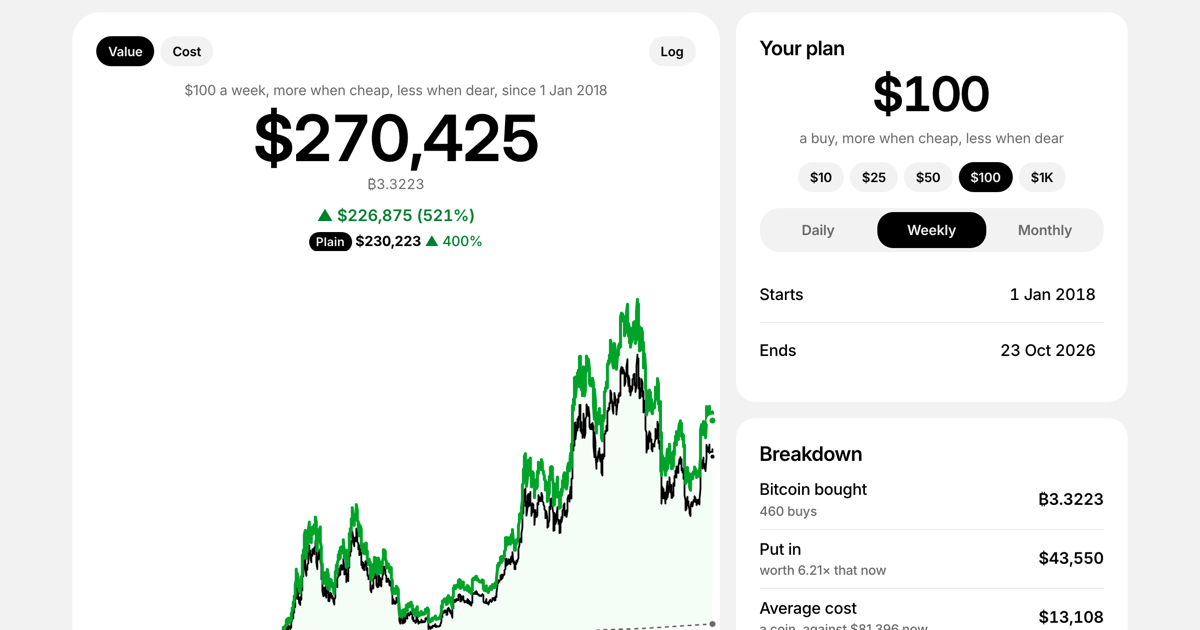
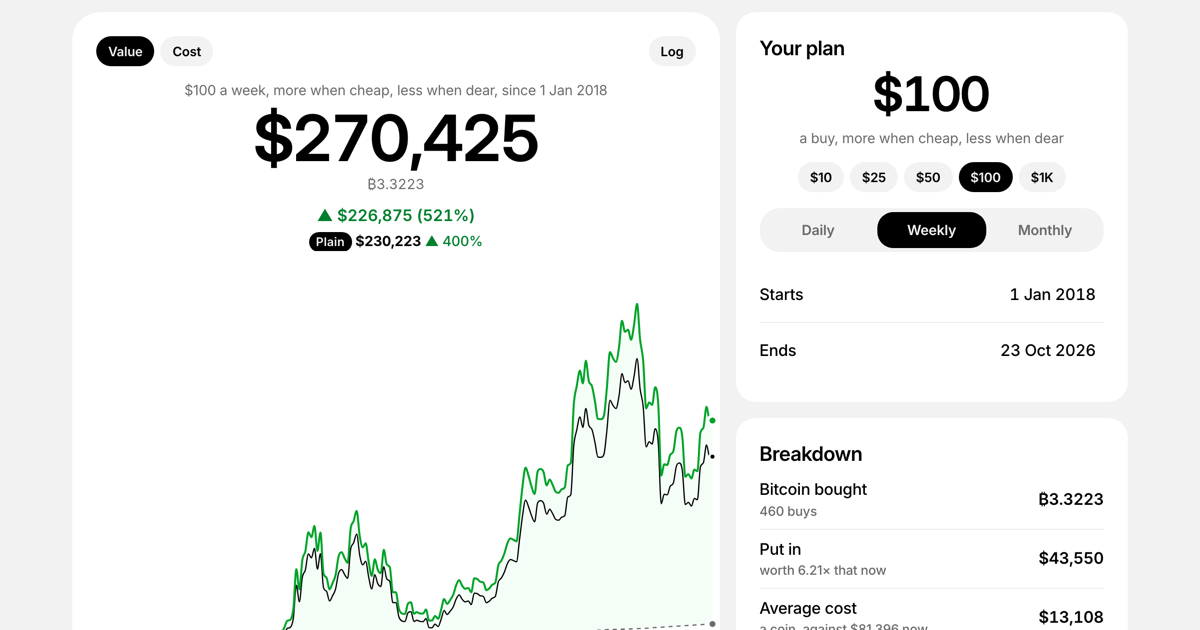
showcases: DCA's chart lines thinner and smooth (the plan's 2px, the rest 1.25px; picked from five looks): a point every 3px, joined by a curve that never shows a high or low its points don't have (monotone, Fritsch–Carlson), a short plan's filled from the same curve through its days; the crosshair'

diff --git a/showcases/dca/index.html b/showcases/dca/index.html
@@ -467,15 +467,15 @@
         fill: var(--loss-fill);
       }
 
+      /* (Thin: the plan's own 2px, the rest 1.25px.) */
       .line {
         fill: none;
-        stroke-width: 2.5px;
+        stroke-width: 2px;
         stroke-linecap: round;
         stroke-linejoin: round;
 
         &.up {
           stroke: var(--line-up);
-          stroke-width: 3px;
         }
 
         &.down {
@@ -484,17 +484,17 @@
 
         &.price {
           stroke: var(--soft);
-          stroke-width: 1.75px;
+          stroke-width: 1.25px;
         }
 
         &.plain {
           stroke: var(--plain);
-          stroke-width: 1.75px;
+          stroke-width: 1.25px;
         }
 
         &.dashed {
           stroke: var(--soft);
-          stroke-width: 1.5px;
+          stroke-width: 1.25px;
           stroke-dasharray: 3 5;
         }
       }
@@ -562,7 +562,7 @@
           height: 0;
           margin-right: 6px;
           vertical-align: 0.3em;
-          border-top: 2.5px solid var(--line-up);
+          border-top: 2px solid var(--line-up);
           border-radius: 2px;
         }
 
@@ -572,7 +572,7 @@
 
         .price i {
           border-top-color: var(--soft);
-          border-top-width: 2px;
+          border-top-width: 1.5px;
         }
 
         .down i {
@@ -581,6 +581,7 @@
 
         .plain i {
           border-top-color: var(--plain);
+          border-top-width: 1.5px;
         }
 
         .plain-name {
@@ -1480,7 +1481,12 @@
 
       // ── The plan's state, in the address (to: left out while it's the last day) ──
 
-      const state = { amount: 100, every: /** @type {Every} */ ("week"), from: 0, to: 0, log: false, view: /** @type {"value" | "cost"} */ ("value"), atlas: /** @type {"returns" | "edge"} */ ("returns") };
+      /** Each chart's scale by default: the value's linear, a plan's worth as it grew; the cost's log, as the price and a
+       * coin's cost span cents to tens of thousands of dollars. */
+      const LOG = { value: false, cost: true };
+      const state = { amount: 100, every: /** @type {Every} */ ("week"), from: 0, to: 0, logs: { ...LOG }, view: /** @type {"value" | "cost"} */ ("value"), atlas: /** @type {"returns" | "edge"} */ ("returns") };
+      /** Whether the chart shown is on a log scale (each chart keeps its own). */
+      const logged = () => state.logs[state.view];
       /** The plain plan, and the smart plan over the same days (none without MVRV). @type {Run} */
       let plan;
       /** @type {Run | null} */
@@ -1496,7 +1502,7 @@
       /** The plan a link asks for; a part that isn't usable stays the default, and the page says which. */
       function readAddress() {
         const query = new URLSearchParams(location.search), unused = [];
-        const amount = query.get("amount"), every = query.get("every"), from = query.get("from"), to = query.get("to"), view = query.get("view"), atlas = query.get("map");
+        const amount = query.get("amount"), every = query.get("every"), from = query.get("from"), to = query.get("to"), view = query.get("view"), scale = query.get("scale"), atlas = query.get("map");
         if (amount !== null) amountProblem(Number(amount)) ? unused.push("amount") : (state.amount = Number(amount));
         if (every !== null) every === "day" || every === "week" || every === "month" ? (state.every = every) : unused.push("schedule");
         const toDay = to === null ? last : linkDay(to), fromDay = from === null ? NaN : linkDay(from);
@@ -1504,8 +1510,9 @@
         state.to = toDay >= first && toDay <= last ? toDay : last;
         if (from !== null && !(fromDay >= first && fromDay <= state.to)) unused.push("first day");
         state.from = fromDay >= first && fromDay <= state.to ? fromDay : Math.max(first, yearsBefore(state.to, 4) + 1);
-        state.log = query.get("scale") === "log";
         if (view !== null) view === "value" || view === "cost" ? (state.view = view) : unused.push("chart");
+        // (The scale is the linked chart's.)
+        if (scale !== null) scale === "log" || scale === "lin" ? (state.logs[state.view] = scale === "log") : unused.push("scale");
         if (atlas !== null) atlas === "returns" || (atlas === "smart" && comparable) ? (state.atlas = atlas === "smart" ? "edge" : "returns") : unused.push("map");
         return unused.length ? `This link's ${unused.join(", ")} couldn't be used, so ${unused.length > 1 ? "the defaults stand" : "the default stands"} in.` : "";
       }
@@ -1518,7 +1525,8 @@
       function writeAddress() {
         const query = new URLSearchParams({ amount: String(state.amount), every: state.every, from: iso(state.from) });
         if (state.to !== last) query.set("to", iso(state.to));
-        if (state.log) query.set("scale", "log");
+        // (The chart shown's scale, when it isn't that chart's default.)
+        if (logged() !== LOG[state.view]) query.set("scale", logged() ? "log" : "lin");
         if (state.view === "cost") query.set("view", "cost");
         if (state.atlas === "edge") query.set("map", "smart");
         history.replaceState(null, "", `?${query}`);
@@ -1605,7 +1613,7 @@
           const years = Number(/** @type {HTMLElement} */ (button).dataset.years);
           button.setAttribute("aria-pressed", String(state.from === spanStart(years)));
         }
-        $("log").setAttribute("aria-pressed", String(state.log));
+        $("log").setAttribute("aria-pressed", String(logged()));
         for (const button of document.querySelectorAll("[data-atlas]")) button.setAttribute("aria-pressed", String(/** @type {HTMLElement} */ (button).dataset.atlas === state.atlas));
       }
 
@@ -1677,7 +1685,7 @@
         });
       }
       $("log").addEventListener("click", () => {
-        state.log = !state.log;
+        state.logs[state.view] = !logged();
         update();
       });
 
@@ -1751,9 +1759,9 @@
       const INKS = { up: "var(--line-up)", down: "var(--loss)", price: "var(--soft)", dashed: "var(--soft)", plain: "var(--plain)" };
       /** What the chart shows: x and y by the plan's day, its series (two, and the baseline's third), the crosshair, and
        * how to finish drawing it.
-       * @type {{ x: (i: number) => number, ys: ((i: number) => number)[], series: Series[], marks: Element[], line: Element, ends: Element, finish: () => void } | null} */
+       * @type {{ x: (i: number) => number, onLine: (k: number, i: number) => number, series: Series[], marks: Element[], line: Element, ends: Element, finish: () => void } | null} */
       let drawn = null;
-      /** The lines as on screen, two points a pixel column: where a glide starts. */
+      /** The lines as on screen, a point a column: where a glide starts. */
       let onScreen = /** @type {Float64Array[] | null} */ (null), glide = 0;
       const GLIDE = 250;
       const eased = (/** @type {number} */ t) => 1 - (1 - t) ** 3;
@@ -1767,6 +1775,45 @@
       /** How far in from each side the first and last days sit: a dot's reach (a crosshair's 5px and its 1.5px ring), so
        * a dot on either end stays in its card. */
       const INSET = 7;
+      /** A line's points, one every 3px: the curve through them is smooth where a point a pixel is hair. */
+      const STEP = 3;
+
+      /** The slopes at points by x of a curve through them, monotone between each two (Fritsch–Carlson): smooth, and never
+       * above the higher of two neighbors or below the lower, so it shows no high or low the points don't have. */
+      function tangentsOf(/** @type {[number, number][]} */ points) {
+        const n = points.length, slopes = [], tangents = new Array(n).fill(0);
+        if (n < 2) return tangents;
+        for (let k = 0; k < n - 1; k++) slopes.push((points[k + 1][1] - points[k][1]) / (points[k + 1][0] - points[k][0]));
+        [tangents[0], tangents[n - 1]] = [slopes[0], slopes[n - 2]];
+        for (let k = 1; k < n - 1; k++) tangents[k] = slopes[k - 1] * slopes[k] <= 0 ? 0 : (slopes[k - 1] + slopes[k]) / 2;
+        for (let k = 0; k < n - 1; k++) {
+          if (slopes[k] === 0) {
+            tangents[k] = tangents[k + 1] = 0;
+            continue;
+          }
+          const a = tangents[k] / slopes[k], b = tangents[k + 1] / slopes[k], h = a * a + b * b;
+          if (h > 9) [tangents[k], tangents[k + 1]] = [(3 / Math.sqrt(h)) * a * slopes[k], (3 / Math.sqrt(h)) * b * slopes[k]];
+        }
+        return tangents;
+      }
+
+      /** That curve's height between two points `width` apart, with heights y0, y1 and slopes m0, m1, a fraction `u` along. */
+      const hermite = (/** @type {number} */ y0, /** @type {number} */ y1, /** @type {number} */ m0, /** @type {number} */ m1, /** @type {number} */ u, /** @type {number} */ width) =>
+        (2 * u ** 3 - 3 * u ** 2 + 1) * y0 + (u ** 3 - 2 * u ** 2 + u) * width * m0 + (-2 * u ** 3 + 3 * u ** 2) * y1 + (u ** 3 - u ** 2) * width * m1;
+
+      /** That curve as a path, from the first point or (`reverse`) from the last: the same curve either way. */
+      function monotone(/** @type {[number, number][]} */ points, reverse = false) {
+        const n = points.length, at = (/** @type {[number, number]} */ [x, y]) => `${x.toFixed(1)},${y.toFixed(1)}`;
+        if (n < 3) return (reverse ? [...points].reverse() : points).map((p, k) => `${k ? "L" : "M"}${at(p)}`).join("");
+        const tangents = tangentsOf(points), segments = [];
+        for (let k = 0; k < n - 1; k++) {
+          const [[x0, y0], [x1, y1]] = [points[k], points[k + 1]], third = (x1 - x0) / 3;
+          /** @type {[number, number][]} */
+          const controls = [[x0 + third, y0 + tangents[k] * third], [x1 - third, y1 - tangents[k + 1] * third]];
+          segments.push(reverse ? `C${at(controls[1])},${at(controls[0])},${at(points[k])}` : `C${at(controls[0])},${at(controls[1])},${at(points[k + 1])}`);
+        }
+        return `M${at(points[reverse ? n - 1 : 0])}${(reverse ? segments.reverse() : segments).join("")}`;
+      }
 
       /** No axes: the numbers are the value above and the keys below, at the day pointed at. The plan the page leads with:
        * worth is green, or red when the plan ends below what went in; faintly between its two lines, green where the plan
@@ -1794,10 +1841,11 @@
           }
         // (Flat within float error, as a one-day plan is: centered.)
         const flat = hi - lo <= hi * 1e-9;
-        if (state.log) [lo, hi] = flat ? [lo / 2, hi * 2] : [lo / 1.04, hi * 1.04];
+        const log = logged();
+        if (log) [lo, hi] = flat ? [lo / 2, hi * 2] : [lo / 1.04, hi * 1.04];
         else [lo, hi] = flat ? [lo / 2, hi * 1.5] : [Math.max(0, lo - (hi - lo) * 0.05), hi + (hi - lo) * 0.05];
-        const span = state.log ? Math.log(hi / lo) : hi - lo;
-        const y = (/** @type {number} */ v) => pad + (height - 2 * pad) * (1 - (state.log ? Math.log(v / lo) : v - lo) / span);
+        const span = log ? Math.log(hi / lo) : hi - lo;
+        const y = (/** @type {number} */ v) => pad + (height - 2 * pad) * (1 - (log ? Math.log(v / lo) : v - lo) / span);
         const x = (/** @type {number} */ i) => (n === 1 ? width / 2 : INSET + (i / (n - 1)) * (width - 2 * INSET));
         const ys = series.map((s) => (/** @type {number} */ i) => y(s.f(i)));
         svg.setAttribute("viewBox", `0 0 ${width} ${height}`);
@@ -1813,50 +1861,40 @@
         ends.append(...dots);
         // (The baseline's line under the plan's own, which is on top.)
         svg.replaceChildren(clips, ...fills, ...[0, 2, 1].flatMap((k) => lines[k] ?? []), ends, cross);
-        // The lines as two points a pixel column, at rest and in a glide alike, so a glide starts and ends on the shape at
-        // rest: where days outnumber columns, a column's lowest and highest day in the order they came (as drawing every
-        // day looks); else each day on the column nearest it and the line between days on the rest, twice a column. A
-        // one-day plan: its point, in one column.
-        const columns = n === 1 ? 1 : Math.max(2, Math.round(width - 2 * INSET));
+        // The lines as a point a column, every STEP px, at rest and in a glide alike, so a glide starts and ends on the
+        // shape at rest: where days outnumber columns, the day at each column's x (the first and last columns: the first
+        // and last days); else the curve through the days where each column is, so a short plan is as smooth as a long
+        // one. A one-day plan: its point, in one column.
+        const columns = n === 1 ? 1 : Math.max(2, Math.round((width - 2 * INSET) / STEP));
         const colX = (/** @type {number} */ j) => (columns === 1 ? width / 2 : INSET + (j / (columns - 1)) * (width - 2 * INSET));
         // (After the columns, the last day's own value: where the line's end dot sits.)
         const sample = (/** @type {(i: number) => number} */ yOf) => {
-          const out = new Float64Array(columns * 2 + 1);
-          out[columns * 2] = yOf(n - 1);
+          const out = new Float64Array(columns + 1);
+          out[columns] = yOf(n - 1);
           if (n > columns) {
-            for (let j = 0; j < columns; j++) {
-              const from = Math.floor((j * n) / columns), to = Math.max(from + 1, Math.floor(((j + 1) * n) / columns));
-              let top = from, bottom = from;
-              for (let i = from; i < to; i++) {
-                if (yOf(i) < yOf(top)) top = i;
-                if (yOf(i) > yOf(bottom)) bottom = i;
-              }
-              [out[2 * j], out[2 * j + 1]] = top < bottom ? [yOf(top), yOf(bottom)] : [yOf(bottom), yOf(top)];
-            }
+            for (let j = 0; j < columns; j++) out[j] = yOf(Math.round((j / (columns - 1)) * (n - 1)));
             return out;
           }
+          /** @type {[number, number][]} */
+          const days = Array.from({ length: n }, (_, i) => [i, yOf(i)]), tangents = tangentsOf(days);
           for (let j = 0; j < columns; j++) {
-            const t = columns === 1 ? 0 : (j / (columns - 1)) * (n - 1), i = Math.floor(t), next = Math.min(n - 1, i + 1);
-            out[2 * j] = out[2 * j + 1] = yOf(i) + (yOf(next) - yOf(i)) * (t - i);
-          }
-          for (let i = 0; i < n; i++) {
-            const j = n === 1 ? 0 : Math.round((i / (n - 1)) * (columns - 1));
-            out[2 * j] = out[2 * j + 1] = yOf(i);
+            // (Between two days, the cubic that joins them with their slopes.)
+            const t = columns === 1 ? 0 : (j / (columns - 1)) * (n - 1), i = Math.min(n - 2, Math.floor(t)), u = t - i;
+            if (n === 1) {
+              out[j] = days[0][1];
+              continue;
+            }
+            out[j] = hermite(days[i][1], days[i + 1][1], tangents[i], tangents[i + 1], u, 1);
           }
           return out;
         };
+        /** A line's samples as points on the chart. */
+        const pointsOf = (/** @type {Float64Array} */ line) => Array.from({ length: columns }, (_, j) => /** @type {[number, number]} */ ([colX(j), line[j]]));
         /** Draws the lines, the fill between the first two and its clips, from their samples. */
         const paint = (/** @type {Float64Array[]} */ shape) => {
-          const along = (/** @type {number} */ k, reverse = false) => {
-            let d = "";
-            for (let m = 0; m < columns * 2; m++) {
-              const p = reverse ? columns * 2 - 1 - m : m;
-              d += `${d ? "L" : "M"}${colX(p >> 1).toFixed(1)},${shape[k][p].toFixed(1)}`;
-            }
-            return d;
-          };
+          const along = (/** @type {number} */ k, reverse = false) => monotone(pointsOf(shape[k]), reverse);
           lines.forEach((path, k) => path.setAttribute("d", along(k)));
-          dots.forEach((dot, k) => dot.setAttribute("cy", shape[k][columns * 2].toFixed(1)));
+          dots.forEach((dot, k) => dot.setAttribute("cy", shape[k][columns].toFixed(1)));
           const edge = along(1 - good), between = `${along(good)}L${along(1 - good, true).slice(1)}Z`;
           fills.forEach((fill) => fill.setAttribute("d", between));
           under[0].setAttribute("d", `${edge}L${width},0L0,0Z`);
@@ -1870,7 +1908,15 @@
           paint(target);
           onScreen = target;
         };
-        drawn = { x, ys, series, marks, line, ends, finish };
+        // (A day's mark on its line as drawn at rest: on the curve between the two points around it, where the day falls
+        // between points; the keys say the day's own numbers.)
+        const tangents = target.map((line) => tangentsOf(pointsOf(line)));
+        const onLine = (/** @type {number} */ k, /** @type {number} */ i) => {
+          if (columns === 1) return target[k][0];
+          const at = (i / (n - 1)) * (columns - 1), j = Math.min(columns - 2, Math.floor(at));
+          return hermite(target[k][j], target[k][j + 1], tangents[k][j], tangents[k][j + 1], at - j, colX(j + 1) - colX(j));
+        };
+        drawn = { x, onLine, series, marks, line, ends, finish };
         cancelAnimationFrame(glide);
         if (animate && from && !still.matches) {
           const start = performance.now();
@@ -1931,7 +1977,7 @@
           drawn.line.setAttribute("x2", x);
           drawn.marks.forEach((mark, k) => {
             mark.setAttribute("cx", x);
-            mark.setAttribute("cy", String(/** @type {NonNullable<typeof drawn>} */ (drawn).ys[k](at)));
+            mark.setAttribute("cy", String(/** @type {NonNullable<typeof drawn>} */ (drawn).onLine(k, at)));
           });
         }
         setWorth(worth, roll);
